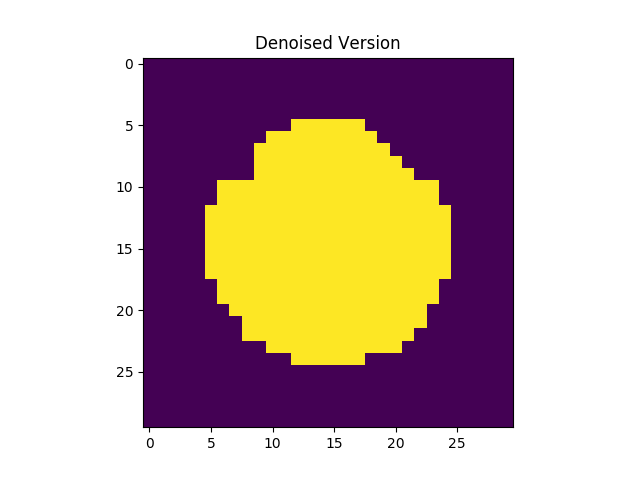
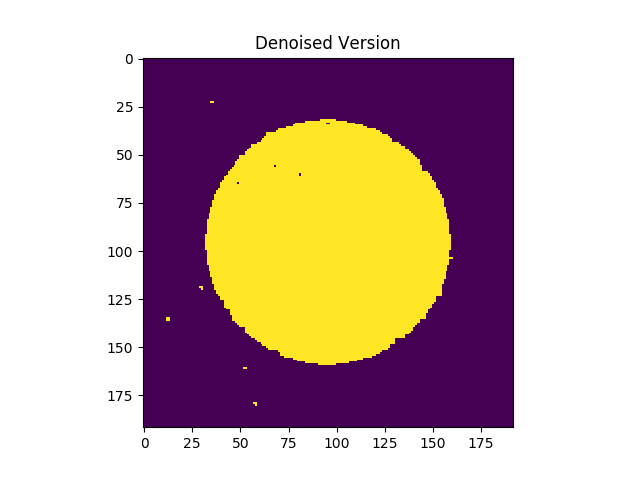
Update linear_mrf.py train_obj

diff --git a/assignments/assignment7/mp7/linear_mrf.py b/assignments/assignment7/mp7/linear_mrf.py
@@ -227,7 +227,7 @@ class LinearMRF(object):
                 for each of the noisy samples. Each entry is a rank-2 tensor
                 of size (height x width, 2)
             pairwise_potentials(tf.Tensor): The pairwise potentials, which is
-                a rank-2 tensor of size (len(pairs) * 4, 1)
+                a rank-2 tensor of size (len(self.pairs), 4)
         Returns:
             (tf.Tensor): the training objective, which is a rank-0 tensor
         """
@@ -261,17 +261,26 @@ class LinearMRF(object):
         # F = tf.reduce_sum(tf.multiply(self.unary_weight, img_features))
 
         # F = tf.reduce_sum
-
-
         unary_loss = tf.reduce_sum(tf.multiply(unary_beliefs, unary_potentials))
         pairwise_loss = tf.reduce_sum(tf.multiply(pair_beliefs, pairwise_potentials))
 
         # F = tf.reduce_sum(tf.multiply(self.unary_weight, tf.convert_to_tensor(img_features, dtype=unary_potentials.dtype)) + 
             # tf.multiply(self.pairwise_weight, tf.convert_to_tensor(img_features, dtype=pairwise_potentials.dtype)))
-        F = tf.reduce_sum(tf.multiply(self.unary_weight, img_features))
+        F1 = tf.reduce_sum(tf.multiply(unary_potentials, img_features))
+
+        pairwise_features = np.zeros((len(self.pairs), 4))
+
+        for pair in self.pairs:
+            i, j = pair
+            y = int(img_features[i, 1] * 2 + img_features[j, 1])
+            x = self.pair_inds[pair]
+            pairwise_features[x, y] = 1
+
+        F2 = tf.reduce_sum(tf.multiply(pairwise_potentials, pairwise_features))
+
 
         # Compute traning object
-        obj = unary_loss + pairwise_loss - F
+        obj = unary_loss + pairwise_loss - (F1 + F2)
         return obj
 
     def train(self, original_img, noisy_samples, lr, num_epochs,

diff --git a/assignments/assignment7/mp7/main.py b/assignments/assignment7/mp7/main.py
@@ -13,7 +13,7 @@ from data_tools import load_dataset, plot_image
 flags = tf.app.flags
 FLAGS = flags.FLAGS
 flags.DEFINE_float('learning_rate', 0.01, 'Initial learning rate.')
-flags.DEFINE_integer('num_epochs', 10, 'Number of update steps to run.')
+flags.DEFINE_integer('num_epochs', 3, 'Number of update steps to run.')
 flags.DEFINE_float('convergence_margin', 0.01,
                    'Margin of convergence for inference')
 flags.DEFINE_string('input_file_path', 'data/circle.png', 'Original Image.')
